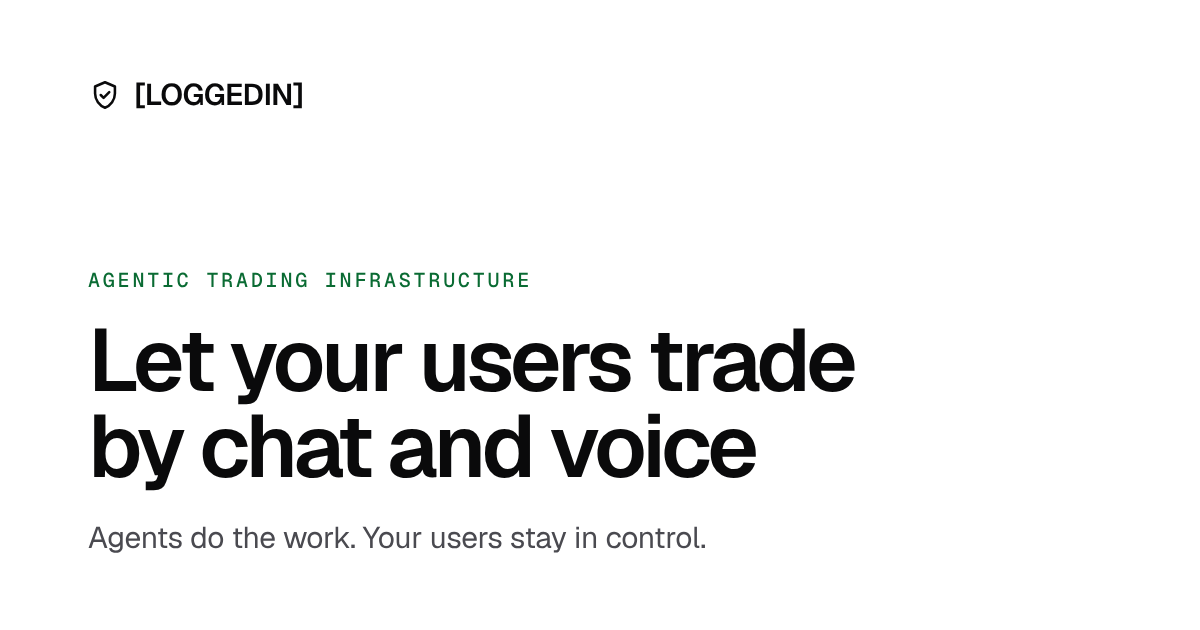
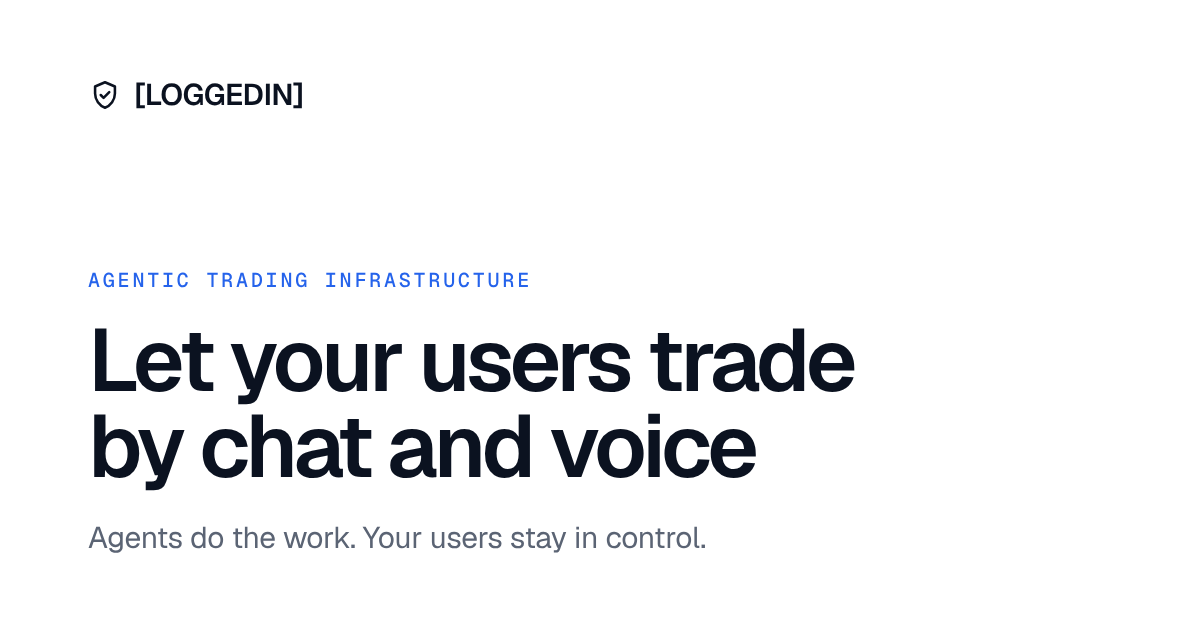
Switch palette to blue
Claude-Session: https://claude.ai/code/session_018Lm8GoFZFcNPrYYkaJQycV

diff --git a/tailwind.config.ts b/tailwind.config.ts
@@ -1,6 +1,6 @@
 import type { Config } from "tailwindcss";
 
-// Design tokens (light theme). Colour is reserved for meaning: status chips only.
+// Design tokens (light theme). Blue is the brand accent; green/amber/red/grey are status colours only.
 // Use these names in components, e.g. `bg-surface`, `text-ink-muted`.
 const config: Config = {
   content: ["./app/**/*.{ts,tsx}", "./components/**/*.{ts,tsx}"],
@@ -9,34 +9,37 @@ const config: Config = {
       colors: {
         bg: "#FFFFFF",
         surface: {
-          DEFAULT: "#F4F4F5", // panels behind product shots, agent cards
+          DEFAULT: "#F6F7F9", // soft background: panels, cards
           raised: "#FFFFFF", // cards sitting on a panel
-          sunken: "#F8F8F9", // inputs, plan card
+          sunken: "#F6F7F9", // inputs, plan card
         },
         line: {
-          DEFAULT: "#E6E6E9",
-          strong: "#D4D4D8",
+          DEFAULT: "#E3E7ED", // borders
+          strong: "#CDD4DE", // slightly stronger lines (connectors, dividers)
         },
         ink: {
-          DEFAULT: "#0A0A0B", // primary text, buttons
-          secondary: "#4A4A50",
-          muted: "#6B6B72",
+          DEFAULT: "#0B1220", // primary text, dark buttons
+          secondary: "#5B6474", // body text
+          muted: "#5B6474", // labels, captions
         },
-        // Accent: eyebrows and primary buttons. Same deep green as the "Active" chip.
+        // Brand accent: buttons, links, eyebrows, rotating verb, active nav, focus rings.
         accent: {
-          DEFAULT: "#0A6B33", // eyebrows, primary buttons
-          hover: "#08572A",
+          DEFAULT: "#2563EB",
+          hover: "#1D4ED8",
+          soft: "#EEF2FF", // highlight backgrounds, subtle chips
         },
+        // Status colours: strictly for meaning. Green only appears here.
+        // Chip text for approved/blocked is one shade darker than the base hue for 4.5:1 contrast.
         status: {
-          "active-bg": "#E6F4EA",
-          "active-fg": "#0A6B33",
-          "awaiting-bg": "#FDF1D8",
-          "awaiting-fg": "#7A4D00",
-          "paused-bg": "#EEEEF0",
-          "paused-fg": "#4A4A50",
-          "blocked-bg": "#FCE8E7",
-          "blocked-fg": "#A8201A",
-          live: "#16A34A",
+          "active-bg": "#DCFCE7",
+          "active-fg": "#15803D",
+          "awaiting-bg": "#FEF3C7",
+          "awaiting-fg": "#B45309",
+          "paused-bg": "#F1F3F6",
+          "paused-fg": "#5B6474",
+          "blocked-bg": "#FEE2E2",
+          "blocked-fg": "#B91C1C",
+          live: "#16A34A", // non-text status marks: live dot, "Active" toggle
         },
       },
       borderRadius: {
@@ -51,7 +54,7 @@ const config: Config = {
         mono: ["var(--font-mono)", "ui-monospace", "SFMono-Regular", "monospace"],
       },
       boxShadow: {
-        product: "0 1px 2px rgba(10,10,11,0.04), 0 12px 32px -8px rgba(10,10,11,0.12), 0 40px 80px -24px rgba(10,10,11,0.10)",
+        product: "0 1px 2px rgba(11,18,32,0.04), 0 12px 32px -8px rgba(11,18,32,0.12), 0 40px 80px -24px rgba(11,18,32,0.10)",
       },
       keyframes: {
         blink: { "0%, 49%": { opacity: "1" }, "50%, 100%": { opacity: "0" } },

diff --git a/components/SecurityFlow.tsx b/components/SecurityFlow.tsx
@@ -23,7 +23,7 @@ const FINAL = 6;
 // Lit style per step; dim style is shared.
 const LIT = [
   "bg-surface text-ink ring-1 ring-line-strong",
-  "bg-status-active-bg text-status-active-fg",
+  "bg-accent-soft text-accent ring-1 ring-accent/30",
   "bg-ink text-white",
 ];
 const DIM = "bg-surface text-ink-muted";
@@ -34,7 +34,7 @@ function Connector({ lit, moving, arrived }: { lit: boolean; moving: boolean; ar
       <span className={`absolute inset-0 transition-colors duration-500 ${lit ? "bg-accent/60" : "bg-line-strong"}`} />
       {/* Travelling dot */}
       <span
-        className={`absolute h-2 w-2 -translate-x-1/2 -translate-y-1/2 rounded-full bg-accent shadow-[0_0_0_4px_rgba(10,107,51,0.15)] transition-[left,top,opacity] duration-700 ease-in-out ${
+        className={`absolute h-2 w-2 -translate-x-1/2 -translate-y-1/2 rounded-full bg-accent shadow-[0_0_0_4px_rgba(37,99,235,0.18)] transition-[left,top,opacity] duration-700 ease-in-out ${
           arrived ? "left-1/2 top-full md:left-full md:top-1/2" : "left-1/2 top-0 md:left-0 md:top-1/2"
         } ${moving ? "opacity-100" : "opacity-0"}`}
       />

diff --git a/components/Header.tsx b/components/Header.tsx
@@ -71,7 +71,7 @@ export default function Header() {
                       href={link.href}
                       aria-current={isActive ? "location" : undefined}
                       className={`rounded-md text-sm font-medium transition-colors ${
-                        isActive ? "text-ink" : "text-ink-muted hover:text-ink"
+                        isActive ? "text-accent" : "text-ink-muted hover:text-ink"
                       }`}
                     >
                       {link.label}
@@ -115,7 +115,7 @@ export default function Header() {
                 onClick={() => setOpen(false)}
                 aria-current={active === link.href ? "location" : undefined}
                 className={`block rounded-md py-3 text-base font-medium ${
-                  active === link.href ? "text-ink" : "text-ink-secondary"
+                  active === link.href ? "text-accent" : "text-ink-secondary"
                 }`}
               >
                 {link.label}

diff --git a/components/Footer.tsx b/components/Footer.tsx
@@ -17,13 +17,13 @@ export default function Footer() {
             <ul className="flex flex-wrap gap-x-6 gap-y-3 text-sm">
               {footer.nav.map((link) => (
                 <li key={link.href}>
-                  <a href={link.href} className="rounded-md text-ink-muted transition-colors hover:text-ink">
+                  <a href={link.href} className="rounded-md text-ink-muted transition-colors hover:text-accent">
                     {link.label}
                   </a>
                 </li>
               ))}
               <li>
-                <a href={header.ctaHref} className="rounded-md font-medium text-ink transition-colors hover:text-ink-secondary">
+                <a href={header.ctaHref} className="rounded-md font-medium text-accent transition-colors hover:text-accent-hover">
                   {header.ctaLabel}
                 </a>
               </li>

diff --git a/components/Security.tsx b/components/Security.tsx
@@ -13,7 +13,7 @@ export default function Security() {
       <div className="mx-auto mt-10 max-w-[1200px] px-5 sm:px-8">
         {/* Featured card: animated flow is the main element */}
         <Reveal delay={0.08}>
-          <div className="flex flex-col items-center rounded-card border border-accent/25 bg-bg px-6 py-10 text-center shadow-[0_0_0_5px_rgba(10,107,51,0.05),0_24px_48px_-28px_rgba(10,107,51,0.35)] sm:px-10 sm:py-12">
+          <div className="flex flex-col items-center rounded-card border border-accent/25 bg-bg px-6 py-10 text-center shadow-[0_0_0_5px_rgba(37,99,235,0.06),0_24px_48px_-28px_rgba(37,99,235,0.35)] sm:px-10 sm:py-12">
             <SecurityFlow />
             <p className="mt-4 text-lg leading-relaxed text-ink-secondary [text-wrap:balance] sm:mt-5 sm:text-xl">{featured.note}</p>
           </div>

diff --git a/components/SecurityVisuals.tsx b/components/SecurityVisuals.tsx
@@ -185,7 +185,7 @@ function Stop({ delay }: Props) {
     <div ref={ref} className="flex items-center gap-3">
       <span className={`relative h-6 w-10 rounded-pill transition-colors duration-300 ${paused ? "bg-line-strong" : "bg-status-live"}`}>
         <span
-          className={`absolute left-0.5 top-0.5 h-5 w-5 rounded-full bg-white shadow-[0_1px_2px_rgba(10,10,11,0.2)] transition-transform duration-300 ${
+          className={`absolute left-0.5 top-0.5 h-5 w-5 rounded-full bg-white shadow-[0_1px_2px_rgba(11,18,32,0.2)] transition-transform duration-300 ${
             paused ? "translate-x-0" : "translate-x-4"
           }`}
         />

diff --git a/components/Hero.tsx b/components/Hero.tsx
@@ -27,7 +27,7 @@ export default function Hero() {
             </a>
             <a
               href={hero.secondaryCtaHref}
-              className="group inline-flex items-center gap-1.5 rounded-md text-[15px] font-medium text-ink"
+              className="group inline-flex items-center gap-1.5 rounded-md text-[15px] font-medium text-accent hover:text-accent-hover"
             >
               {hero.secondaryCtaLabel}
               <ArrowRightIcon className="h-4 w-4 transition-transform group-hover:translate-x-0.5" />

diff --git a/components/DemoForm.tsx b/components/DemoForm.tsx
@@ -59,7 +59,7 @@ export default function DemoForm() {
               required
               autoComplete={autoComplete}
               placeholder={demo.fields[key].placeholder}
-              className="h-12 rounded-input border border-line bg-bg px-4 text-[15px] text-ink placeholder:text-ink-muted/70 focus-visible:border-ink"
+              className="h-12 rounded-input border border-line bg-bg px-4 text-[15px] text-ink placeholder:text-ink-muted focus-visible:border-accent"
             />
           </div>
         ))}

diff --git a/components/ui.ts b/components/ui.ts
@@ -1,3 +1,3 @@
 /** Shared class names so every primary button looks identical. */
 export const primaryButton =
-  "inline-flex items-center justify-center rounded-pill bg-accent font-medium text-white shadow-[0_1px_2px_rgba(10,10,11,0.08)] transition-colors hover:bg-accent-hover";
+  "inline-flex items-center justify-center rounded-pill bg-accent font-medium text-white shadow-[0_1px_2px_rgba(11,18,32,0.08)] transition-colors hover:bg-accent-hover";

diff --git a/app/globals.css b/app/globals.css
@@ -18,7 +18,7 @@
   }
   /* Visible keyboard focus everywhere */
   :focus-visible {
-    @apply outline-none ring-2 ring-ink ring-offset-2 ring-offset-bg;
+    @apply outline-none ring-2 ring-accent ring-offset-2 ring-offset-bg;
   }
 }
 

diff --git a/README.md b/README.md
@@ -98,7 +98,7 @@ next.config.ts      Build settings + the X-Robots-Tag noindex header
 
 ## Behaviour notes
 
-- **Design:** light theme, Geist and Geist Mono fonts, near-black text and buttons. Deep green is the accent (eyebrows and "Request a demo" buttons); other colour is used only for status chips (green = active/approved, amber = awaiting, grey = paused, red = blocked). All colours are in `tailwind.config.ts`.
+- **Design:** light theme, Geist and Geist Mono fonts, near-black text. Blue (#2563EB) is the brand accent: buttons, links, eyebrows, the rotating headline verb, active menu link and focus rings. Green, amber, red and grey are used only as status colours (green = active/approved/within limits, amber = awaiting, red = blocked/rejected, grey = paused). All colours are in `tailwind.config.ts`.
 - **Animations:** the security and solutions animations start when they scroll into view, loop gently, and pause while off-screen.
 - **Reduced motion:** visitors who turn on "reduce motion" in their device settings see the first chat example already approved, every security and solutions animation in its finished state, no scroll fade-ins, and a grid of agent cards instead of the moving strip.
 - **Demo form:** there's no backend yet. Submitting opens the visitor's email app with their details filled in, addressed to `DEMO_EMAIL`, then shows a confirmation. `TODO`s in `content/site.ts` and `components/DemoForm.tsx` mark where to plug in a real form service.
